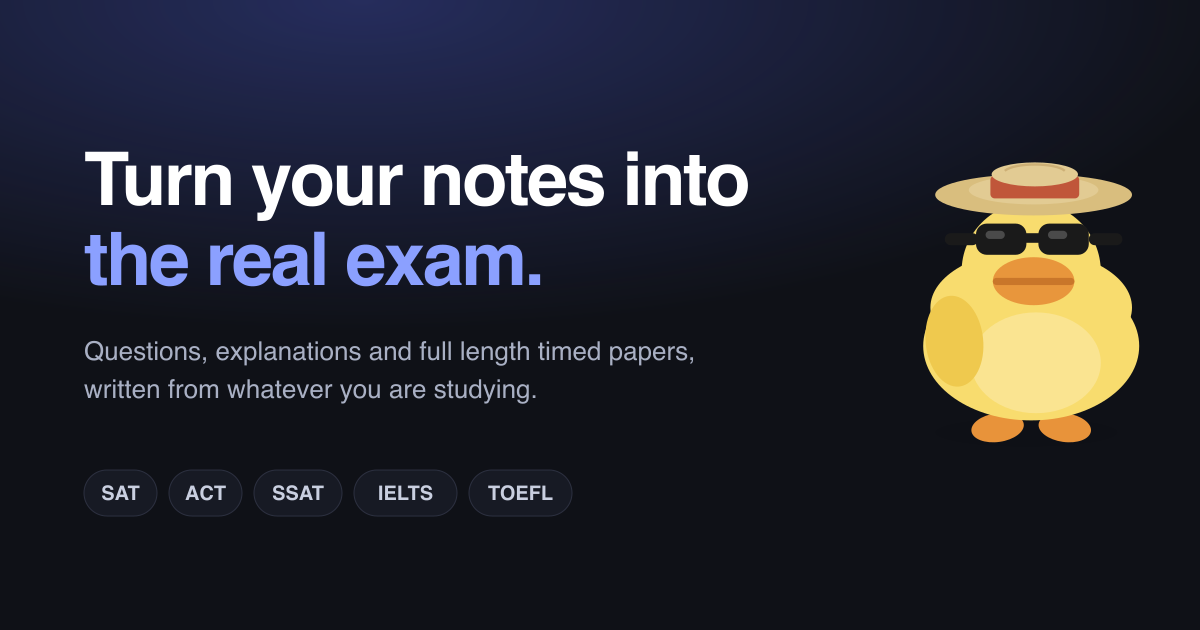
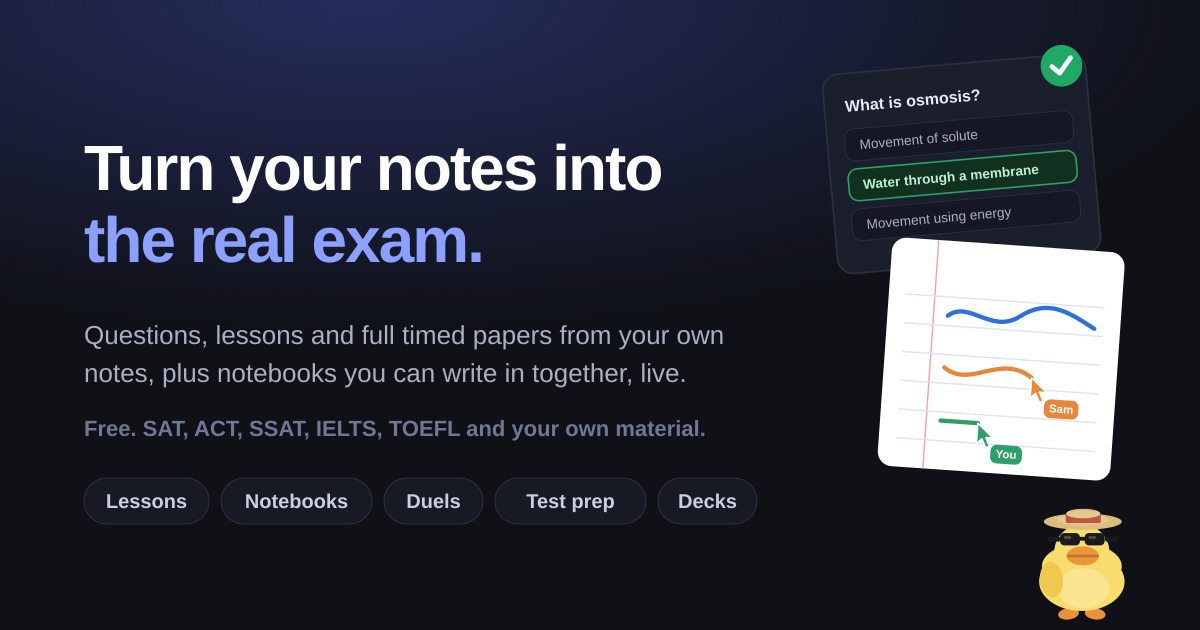
New front page share card and description, and the card script works again

diff --git a/index.html b/index.html
@@ -19,7 +19,7 @@
     <!-- The browser chrome follows the theme rather than being fixed to one. -->
     <meta name="theme-color" content="#ffffff" media="(prefers-color-scheme: light)" />
     <meta name="theme-color" content="#121215" media="(prefers-color-scheme: dark)" />
-    <meta name="description" content="Turn your notes into questions, and sit full length practice papers for the SAT, ACT, SSAT, IELTS and TOEFL." />
+    <meta name="description" content="Turn your notes into questions, lessons and full length practice papers. Write in notebooks together, race friends, and prepare for the SAT, ACT, SSAT, IELTS and TOEFL. Free." />
     <link rel="canonical" href="https://dwiddle.vercel.app/" />
 
     <!-- What a link to this shows in a message or a post. Without these it
@@ -28,16 +28,16 @@
     <meta property="og:site_name" content="Dwiddle" />
     <meta property="og:url" content="https://dwiddle.vercel.app/" />
     <meta property="og:title" content="Dwiddle: turn your notes into the real exam" />
-    <meta property="og:description" content="Paste your notes and get questions, explanations and full length timed papers. SAT, ACT, SSAT, IELTS and TOEFL." />
-    <meta property="og:image" content="https://dwiddle.vercel.app/og.png" />
+    <meta property="og:description" content="Questions, lessons and full timed papers from your own notes, plus notebooks you can write in together, live. Free." />
+    <meta property="og:image" content="https://dwiddle.vercel.app/og.png?v=2" />
     <meta property="og:image:width" content="1200" />
     <meta property="og:image:height" content="630" />
     <meta property="og:image:alt" content="Dwiddle: turn your notes into the real exam" />
 
     <meta name="twitter:card" content="summary_large_image" />
     <meta name="twitter:title" content="Dwiddle: turn your notes into the real exam" />
-    <meta name="twitter:description" content="Paste your notes and get questions, explanations and full length timed papers. SAT, ACT, SSAT, IELTS and TOEFL." />
-    <meta name="twitter:image" content="https://dwiddle.vercel.app/og.png" />
+    <meta name="twitter:description" content="Questions, lessons and full timed papers from your own notes, plus notebooks you can write in together, live. Free." />
+    <meta name="twitter:image" content="https://dwiddle.vercel.app/og.png?v=2" />
 
     <!-- What this actually is. A web application, described truthfully. -->
     <script type="application/ld+json">
@@ -48,7 +48,7 @@
         "url": "https://dwiddle.vercel.app/",
         "applicationCategory": "EducationalApplication",
         "operatingSystem": "Any modern browser",
-        "description": "Turns your own notes into practice questions with explanations, and runs full length timed practice papers for the SAT, ACT, SSAT, IELTS and TOEFL.",
+        "description": "Turns your own notes into practice questions, lessons and full length timed practice papers, with notebooks you can share and write in together live, flashcard decks, and prep for the SAT, ACT, SSAT, IELTS and TOEFL.",
         "offers": { "@type": "Offer", "price": "0", "priceCurrency": "GBP" }
       }
     </script>
